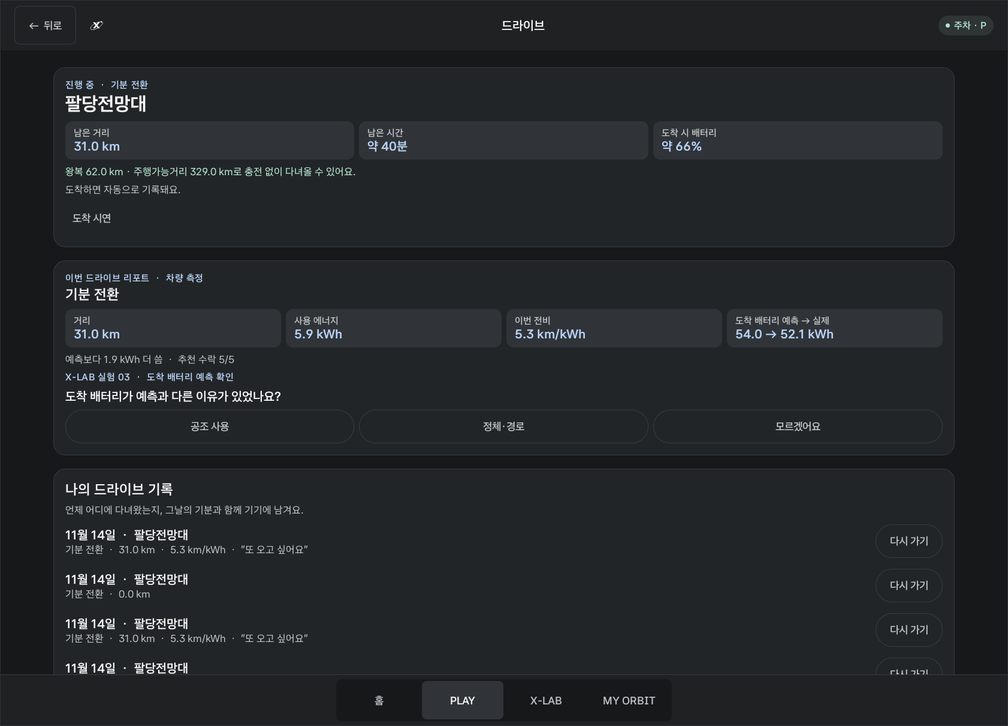
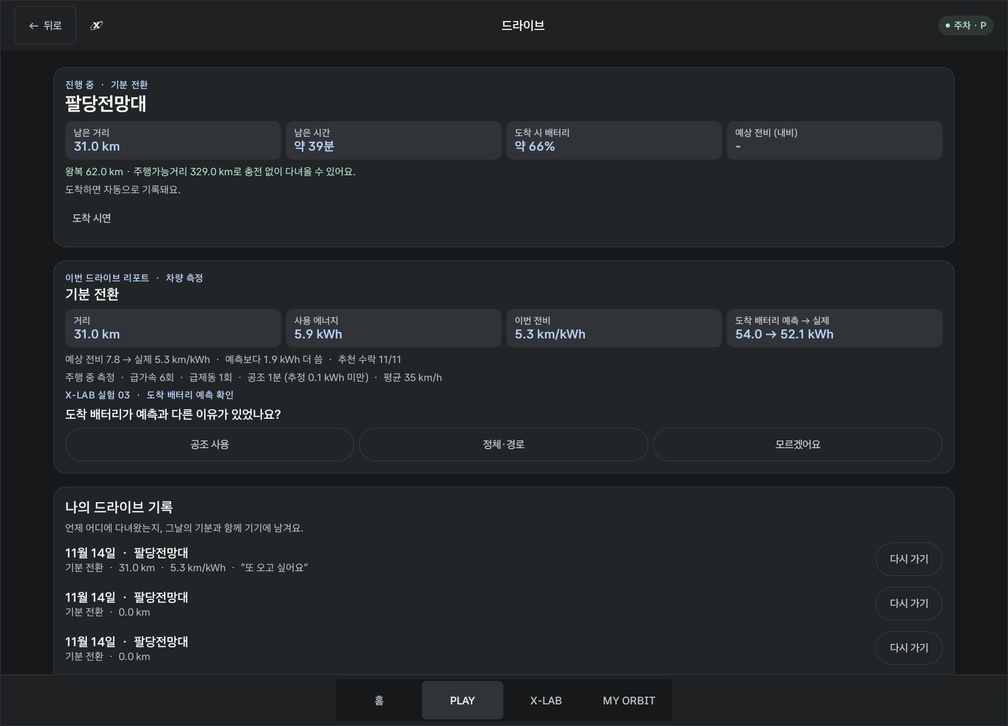
Compare navigation's predicted efficiency with the real one on every guided trip
The route card shows the efficiency navigation implies (remaining distance over the
energy it expects to use), and the drive report shows predicted vs actual km/kWh next to
the arrival battery gap. Any trip guided by Pleos navigation is recorded this way without
picking a drive mode; drive course suggestions stay as they are. Climate time now carries
a rough energy estimate (1 kW average, labelled as an estimate).

diff --git a/app/src/main/java/com/example/orbitx/OrbitData.kt b/app/src/main/java/com/example/orbitx/OrbitData.kt
@@ -54,6 +54,12 @@ internal data class DriveBehavior(val hardAccel: Int, val hardBrake: Int, val cl
 internal const val HardAccelMps2 = 3.0f
 internal const val HardBrakeMps2 = -3.5f
 
+/**
+ * Rough average climate draw used only to show how much of a drive's energy the climate may explain.
+ * Real draw varies a lot (heat pump, outside temperature), so the app always labels it as an estimate.
+ */
+internal const val ClimateKwhPerMinute = 1.0f / 60f
+
 /** The in-drive tip shows after every 3 hard events, at most twice a drive. */
 internal const val DrivingTipEvery = 3
 internal const val DrivingTipMax = 2
@@ -69,6 +75,8 @@ internal data class TripReport(
     /** Battery energy (kWh) the car reported on arrival. */
     val actualArrivalKwh: Float? = null,
     val behavior: DriveBehavior? = null,
+    /** km/kWh navigation implied at departure (route distance over predicted energy use). */
+    val predictedEfficiency: Double? = null,
 ) {
     /** kWh used beyond the prediction (negative: arrived with more than predicted). */
     val arrivalGapKwh: Float?
@@ -667,7 +675,7 @@ internal class OrbitData(private val context: Context) {
             recommendationTotal = total
         }
         if (starting) {
-            prefs.edit().remove("tripPredictKwh").apply()
+            prefs.edit().remove("tripPredictKwh").remove("tripPredictKm").apply()
             clearDriveBehavior()
             val sample = freshVehicleSample()
             if (sample != null) storeTripStart(sample)
@@ -765,12 +773,12 @@ internal class OrbitData(private val context: Context) {
         )
     }
 
-    fun notePredictedArrival(kwh: Float?) {
+    fun notePredictedArrival(kwh: Float?, distanceKm: Float? = null) {
         if (kwh == null || !kwh.isFinite() || kwh <= 0f || activeMission == null || prefs.contains("tripPredictKwh")) return
         // A prediction above the battery we start with is stale (made for an earlier state); skip it.
         val now = freshVehicleSample()?.batteryKwh
         if (now != null && kwh > now + ArrivalGapNoticeKwh) return
-        prefs.edit().putFloat("tripPredictKwh", kwh).apply()
+        prefs.edit().putFloat("tripPredictKwh", kwh).putFloat("tripPredictKm", distanceKm ?: -1f).apply()
     }
 
     private fun storeTripStart(sample: LeagueVehicleSample) {
@@ -791,8 +799,13 @@ internal class OrbitData(private val context: Context) {
         val predicted = prefs.getFloat("tripPredictKwh", -1f).takeIf { it > 0f }
         val actual = end.batteryKwh
         val behavior = currentDriveBehavior()
+        val predictKm = prefs.getFloat("tripPredictKm", -1f).takeIf { it >= .5f }
+        val predictedUse = if (predicted != null && startKwh != null) startKwh - predicted else null
+        val predictedEfficiency = if (predictKm != null && predictedUse != null && predictedUse >= .1f)
+            (predictKm / predictedUse).toDouble() else null
         val done = report.copy(distanceKm = distance, energyKwh = energy, charged = charged, pending = false,
-            predictedArrivalKwh = predicted, actualArrivalKwh = actual, behavior = behavior)
+            predictedArrivalKwh = predicted, actualArrivalKwh = actual, behavior = behavior,
+            predictedEfficiency = predictedEfficiency)
         driveJournal.firstOrNull()?.let { latest ->
             updateLatestJournal(latest.copy(distanceKm = distance, efficiency = done.efficiency))
         }
@@ -800,7 +813,8 @@ internal class OrbitData(private val context: Context) {
             .putBoolean("tripReportCharged", charged).putBoolean("tripReportPending", false)
             .putFloat("tripReportPredict", predicted ?: -1f).putFloat("tripReportActual", actual ?: -1f)
             .putString("tripReportBehavior", behavior?.encode())
-            .remove("tripStartKm").remove("tripStartKwh").remove("tripStartPending").remove("tripPredictKwh").apply()
+            .putFloat("tripReportPredictEff", predictedEfficiency?.toFloat() ?: -1f)
+            .remove("tripStartKm").remove("tripStartKwh").remove("tripStartPending").remove("tripPredictKwh").remove("tripPredictKm").apply()
         lastTrip = done
         clearDriveBehavior()
         done.arrivalGapKwh?.let { gap ->
@@ -823,6 +837,7 @@ internal class OrbitData(private val context: Context) {
             prefs.getFloat("tripReportPredict", -1f).takeIf { it > 0f },
             prefs.getFloat("tripReportActual", -1f).takeIf { it >= 0f },
             DriveBehavior.decode(prefs.getString("tripReportBehavior", null)),
+            prefs.getFloat("tripReportPredictEff", -1f).takeIf { it > 0f }?.toDouble(),
         )
     }
 
@@ -1068,7 +1083,8 @@ internal class OrbitData(private val context: Context) {
         ))
         prefs.edit().putString("tripReportMode", intent).putBoolean("tripReportPending", true)
             .remove("tripReportKm").remove("tripReportKwh").remove("tripReportCharged")
-            .remove("tripReportPredict").remove("tripReportActual").remove("tripReportBehavior").apply()
+            .remove("tripReportPredict").remove("tripReportActual").remove("tripReportBehavior")
+            .remove("tripReportPredictEff").apply()
         lastTrip = TripReport(intent, null, null, charged = false, pending = true)
         nextTripExperiment()
         freshVehicleSample()?.let(::finishTripReport)

diff --git a/app/src/main/java/com/example/orbitx/OrbitApp.kt b/app/src/main/java/com/example/orbitx/OrbitApp.kt
@@ -1248,7 +1248,7 @@ private fun Trip(
                 if (data.availableDriveAward > 0) Chip("도착 +${formatPoints(data.availableDriveAward)}")
             }
             navigation?.route?.let { plan ->
-                RouteEnergyCheck(plan, navigation.arrivalPercent(plan), rangeKm, onCharge = { navigation.openNavigation(DriveMode.Charge.searchRequest) })
+                RouteEnergyCheck(plan, navigation.arrivalPercent(plan), navigation.predictedEfficiency(plan), rangeKm, onCharge = { navigation.openNavigation(DriveMode.Charge.searchRequest) })
             }
             Text(
                 when {
@@ -1379,6 +1379,9 @@ private fun TripReportPanel(data: OrbitData, mission: String, monthEfficiency: D
                         }
                         else -> null
                     },
+                    trip.predictedEfficiency?.let { predicted ->
+                        trip.efficiency?.let { "예상 전비 ${efficiency(predicted)} → 실제 ${efficiency(it)} km/kWh" }
+                    },
                     trip.arrivalGapKwh?.let { gap ->
                         when {
                             gap >= ArrivalGapNoticeKwh -> "예측보다 ${efficiency(gap.toDouble())} kWh 더 씀"
@@ -1399,7 +1402,13 @@ private fun TripReportPanel(data: OrbitData, mission: String, monthEfficiency: D
                     val habits = listOfNotNull(
                         b.hardAccel.takeIf { it >= 0 }?.let { "급가속 ${it}회" },
                         b.hardBrake.takeIf { it >= 0 }?.let { "급제동 ${it}회" },
-                        b.climateMinutes.takeIf { it >= 0 }?.let { if (it == 0) "공조 꺼짐" else "공조 ${it}분" },
+                        b.climateMinutes.takeIf { it >= 0 }?.let {
+                            if (it == 0) "공조 꺼짐"
+                            else {
+                                val kwh = it * ClimateKwhPerMinute
+                                "공조 ${it}분 (추정 " + (if (kwh < .1f) "0.1 kWh 미만" else "약 ${efficiency(kwh.toDouble())} kWh") + ")"
+                            }
+                        },
                         b.avgSpeedKph?.let { "평균 ${it} km/h" },
                     )
                     if (habits.isNotEmpty()) Text("주행 중 측정  ·  " + habits.joinToString("  ·  "),
@@ -1453,13 +1462,14 @@ private fun ReportQuestion(title: String, options: List<String>, onPick: (String
 private val PlausibleEvEfficiency = 2.0..12.0
 
 @Composable
-private fun RouteEnergyCheck(plan: RoutePlan, arrivalPercent: Int?, rangeKm: Float?, onCharge: () -> Unit) {
+private fun RouteEnergyCheck(plan: RoutePlan, arrivalPercent: Int?, predictedEfficiency: Double?, rangeKm: Float?, onCharge: () -> Unit) {
     val distance = plan.distanceKm
     Row(Modifier.fillMaxWidth(), horizontalArrangement = Arrangement.spacedBy(8.dp)) {
         listOf(
             "남은 거리" to (distance?.let { "${efficiency(it.toDouble())} km" } ?: "-"),
             "남은 시간" to (plan.minutes?.let { "약 ${it}분" } ?: "-"),
             "도착 시 배터리" to (arrivalPercent?.let { "약 $it%" } ?: plan.arrivalBatteryKwh?.let { "${efficiency(it.toDouble())} kWh" } ?: "-"),
+            "예상 전비 (내비)" to (predictedEfficiency?.let { "${efficiency(it)} km/kWh" } ?: "-"),
         ).forEach { (label, value) ->
             Column(
                 Modifier.weight(1f).clip(RoundedCornerShape(12.dp)).background(Glass)

diff --git a/app/src/main/java/com/example/orbitx/MissionNavigation.kt b/app/src/main/java/com/example/orbitx/MissionNavigation.kt
@@ -78,6 +78,15 @@ internal class MissionNavigation(
     /** Current battery energy, used with [vehicleBatteryPercent] to turn the arrival energy into a %. */
     var vehicleBatteryKwh: Float? = null
 
+    /** Efficiency navigation implies for the route: remaining distance over the energy it expects to use. */
+    fun predictedEfficiency(plan: RoutePlan?): Double? {
+        val distance = plan?.distanceKm ?: return null
+        val arrival = plan.arrivalBatteryKwh ?: return null
+        val now = vehicleBatteryKwh ?: return null
+        val use = now - arrival
+        return if (use >= .1f && distance >= .5f) (distance / use).toDouble() else null
+    }
+
     /** Arrival battery as a % of capacity (capacity estimated from the car's current kWh and %). */
     fun arrivalPercent(plan: RoutePlan?): Int? {
         val energy = plan?.arrivalBatteryKwh ?: return null

diff --git a/app/src/main/java/com/example/orbitx/OrbitRuntime.kt b/app/src/main/java/com/example/orbitx/OrbitRuntime.kt
@@ -65,7 +65,7 @@ internal object OrbitRuntime {
                 if (tick++ % RouteRefreshTicks == 0) navigation?.refreshRoute()
                 navigation?.vehicleBatteryPercent = source.readBatteryPercent()
                 // Pleos navigation's departure-time prediction, checked against the real arrival later.
-                data.notePredictedArrival(navigation?.route?.arrivalBatteryKwh)
+                data.notePredictedArrival(navigation?.route?.arrivalBatteryKwh, navigation?.route?.distanceKm)
                 // While driving, keep the reasons a drive may use more battery than navigation predicted.
                 if (source.parking != ParkingStatus.Parked && data.activeMission != null) {
                     data.recordClimate(source.readClimateOn(), (SampleIntervalMs / 1_000).toInt())

diff --git a/README.md b/README.md
@@ -55,7 +55,7 @@ Pleos Connect v2.1.0 에뮬레이터에서 현재 빌드로 캡처했습니다. 
 | 슬로건과 인사말, PLAY·X-LAB 진입, 포인트 | 이달 주행 기록, 공조 인사이트와 같은 차종 비교(예시), 도착 배터리 예측 인사이트(내 기록 + 예시), 순위(예시) |
 | **드라이브** | **X-LAB** |
 | ![드라이브](docs/screenshots/04_drive.png) | ![X-LAB](docs/screenshots/08_xlab_experiments.png) |
-| 드라이브 리포트(31 km · 5.9 kWh · 5.3 km/kWh, 도착 배터리 예측 54.0 → 실제 52.1 kWh), 실험 03 질문, 나의 드라이브 기록 | X-LAB → 실험 목록: 실험 6개의 단계(발견 → 시험 → 배포 → 재확인, 효과가 없으면 보류·중단)와 연결된 PLAY, 응답 수 |
+| 진행 중 경로(남은 거리·시간·도착 배터리·내비 예상 전비), 드라이브 리포트(31 km · 5.9 kWh · 예상 전비 7.8 → 실제 5.3 km/kWh, 도착 배터리 54.0 → 52.1 kWh, 주행 중 측정), 실험 03 질문, 나의 드라이브 기록 | X-LAB → 실험 목록: 실험 6개의 단계(발견 → 시험 → 배포 → 재확인, 효과가 없으면 보류·중단)와 연결된 PLAY, 응답 수 |
 | **착석 연동 공조** | **OTA 평가 (실제 도어 제어)** |
 | ![공조](docs/screenshots/09_climate.png) | ![OTA](docs/screenshots/10_ota.png) |
 | 빈 차량을 감지해 순정 공조를 끄고 "에너지 절약" 표시 | Vehicle SDK로 네 문을 잠그고 풀며 버튼을 평가 |
@@ -99,8 +99,8 @@ Pleos Connect v2.1.0 에뮬레이터에서 현재 빌드로 캡처했습니다. 
 **드라이브**
 - **출발 전 확인:** 차량 주행가능거리로 왕복 가능 거리, 배터리, 실내온도를 보여주고, 너무 춥거나 더우면 열선·착석 연동 공조 팁을 줍니다. **실제 SDK**
 - **자동으로 흘러가는 드라이브:** 순정 내비에서 안내를 시작하면 추천 모드로 드라이브가 자동 시작되고, 목적지가 자동 연결되며, 도착 이벤트로 기록이 자동 완료됩니다. **실제 SDK**
-- **경로 에너지 확인:** 남은 거리·시간·도착 시 예상 배터리(내비가 kWh로 알려 준 값을 현재 배터리 기준 %로 환산)를 보여주고, 왕복이 주행가능거리보다 길면 충전소를 제안합니다. **실제 SDK**
-- **도착 배터리 예측 vs 실제 (X-LAB 실험 03):** 현대·기아 순정 내비는 이미 도착 배터리를 예측하고, 모자라면 충전소를 경유지로 넣어 줍니다(EV 경로 플래너). ORBIT X는 이 기능을 다시 만들지 않고, 그 **예측이 실제와 얼마나 맞는지**를 기록합니다. 안내를 시작할 때 NaviHelper가 알려 준 도착 시 남는 에너지(kWh)를 저장하고, 도착하면 Vehicle SDK로 읽은 배터리 에너지와 비교해 드라이브 리포트에 "54.0 → 52.1 kWh · 예측보다 1.9 kWh 더 씀"처럼 보여 줍니다. 주행 중에는 차이의 원인이 될 만한 것을 함께 잽니다: 급가속·급제동 횟수(차량 속도를 0.5초마다 읽어 3 m/s² 넘게 빨라지거나 3.5 m/s² 넘게 줄어든 순간, 급제동은 브레이크 페달 상태도 확인), 공조를 켠 시간, 평균 속도. 리포트에 "주행 중 측정 · 급가속 4회 · 급제동 2회 · 공조 32분 · 평균 52 km/h"처럼 남기고, 차이가 나면 이유(공조 사용, 정체·경로)를 한 번 묻습니다. 중간에 충전한 드라이브는 비교에서 뺍니다. 가속 페달 값은 SDK에 없어 급가속으로만 보고, 제한속도는 내비가 주지 않아 과속은 판단하지 않습니다. **실제 SDK**
+- **경로 에너지 확인:** 남은 거리·시간·도착 시 예상 배터리(내비가 kWh로 알려 준 값을 현재 배터리 기준 %로 환산)와 **내비 예상 전비**(남은 거리 ÷ 내비가 예상한 사용 에너지)를 보여주고, 왕복이 주행가능거리보다 길면 충전소를 제안합니다. **실제 SDK**
+- **내비 예상 전비 vs 실제 전비, 도착 배터리 예측 vs 실제 (X-LAB 실험 03):** 드라이브 모드를 따로 고르지 않아도 순정 내비로 목적지를 검색해 안내를 받으면 자동으로 기록됩니다(드라이브 코스 추천은 그대로 둡니다). 현대·기아 순정 내비는 이미 도착 배터리를 예측하고, 모자라면 충전소를 경유지로 넣어 줍니다(EV 경로 플래너). ORBIT X는 이 기능을 다시 만들지 않고, 그 **예측이 실제와 얼마나 맞는지**를 기록합니다. 안내를 시작할 때 NaviHelper가 알려 준 도착 시 남는 에너지(kWh)를 저장하고, 도착하면 Vehicle SDK로 읽은 배터리 에너지와 비교해 드라이브 리포트에 "예상 전비 7.8 → 실제 5.3 km/kWh · 예측보다 1.9 kWh 더 씀"처럼 보여 줍니다(예상 전비 = 출발 때 경로 거리 ÷ (출발 배터리 − 예상 도착 배터리)). 주행 중에는 차이의 원인이 될 만한 것을 함께 잽니다: 급가속·급제동 횟수(차량 속도를 0.5초마다 읽어 3 m/s² 넘게 빨라지거나 3.5 m/s² 넘게 줄어든 순간, 급제동은 브레이크 페달 상태도 확인), 공조를 켠 시간, 평균 속도. 리포트에 "주행 중 측정 · 급가속 4회 · 급제동 2회 · 공조 32분 (추정 약 0.5 kWh) · 평균 52 km/h"처럼 남기고(공조 에너지는 평균 1 kW로 가정한 참고용 추정치이며 실제 소비는 외기온·히트펌프에 따라 크게 다름), 차이가 나면 이유(공조 사용, 정체·경로)를 한 번 묻습니다. 중간에 충전한 드라이브는 비교에서 뺍니다. 가속 페달 값은 SDK에 없어 급가속으로만 보고, 제한속도는 내비가 주지 않아 과속은 판단하지 않습니다. **실제 SDK**
 - **주행 습관 안내:** 급가속·급제동이 한 드라이브에서 3번 쌓이면 순정 내비 위에 "급가속 2회 · 급제동 1회 / 전비에 악영향을 줄 수 있어요. 부드럽게 안전운전하세요."를 3초만 띄우고 스스로 사라집니다. 누를 필요가 없고, 한 드라이브에 최대 2번(3회, 6회째)만 띄워 자주 방해하지 않습니다. **실제 SDK**
 - **주행 중 내비 위 알림:** 배터리가 부족하면(도착 예상 30% 이하 또는 현재 25% 이하) 순정 내비 위에 알림을 띄우고 버튼 하나로 순정 내비의 경로 주변 충전소 목록을 엽니다. 순정 저잔량 안내와 같은 역할이라 차별 기능으로 내세우지 않습니다. **실제 SDK**
 - **드라이브 리포트:** 출발·도착 때 읽은 값으로 거리·사용 에너지·전비를 계산하고, 내비 안내로 다녀왔다면 도착 배터리 예측 vs 실제와 주행 중 측정(급가속·급제동·공조·평균 속도)을 함께 보여 줍니다. 질문은 한 번에 하나(기분 한 줄 → 추천이 맞았는지 → X-LAB 실험 질문 하나)만 묻고(실험 질문은 도착 후 내비 위 알림으로도 답할 수 있음), 실제 목적은 도착 후 **목적 바꾸기**로 고칩니다. **실제 SDK**
@@ -283,7 +283,7 @@ PC 브라우저에서 [Pleos Virtual Console](http://127.0.0.1:8088/)을 열고 
 | --- | --- | --- |
 | 홈·MY ORBIT | Pleos 프로필 이름(읽을 수 있을 때), 사용자가 입력한 이름, 공조 자동화 설정 | 직접 입력한 이름과 설정 |
 | 주행 효율 리그 | 차량 모델, 누적거리, 배터리 에너지·충전 스위치, 지원 차량 연료량, 착석·공조 전원(읽기 전용) | 월별 거리 기준점, 효율 계산 거리·소비량 합계 |
-| 드라이브 | 배터리 SOC·에너지, 주행가능거리, 실내온도, 조수석 착석, 내비 목적지·남은 거리·도착 배터리·도착 이벤트 | 진행 중 목적지, 리포트, 추천 수락 기록, 드라이브 기록(최근 20건), 목적지 해시와 방문일(7일), 예측·실제 도착 배터리(kWh), 주행 중 측정(급가속·급제동 횟수, 공조 시간, 평균 속도) |
+| 드라이브 | 배터리 SOC·에너지, 주행가능거리, 실내온도, 조수석 착석, 차량 속도, 브레이크 페달, 공조 전원, 내비 목적지·남은 거리·도착 배터리·도착 이벤트 | 진행 중 목적지, 리포트, 추천 수락 기록, 드라이브 기록(최근 20건), 목적지 해시와 방문일(7일), 예측·실제 도착 배터리(kWh), 내비 예상 전비, 주행 중 측정(급가속·급제동 횟수, 공조 시간, 평균 속도) |
 | 착석 연동 공조 | 네 좌석 착석, 실내온도, 공조 구역 상태 | 자동화 설정, 장기 미션 완료일·의견 (연속 신호 이력은 저장 안 함) |
 | X-LAB A/B 비교 | SYNC 상태(차량 신호)로 확인한 두 방식의 완료와 운전자 조작 여부, 착석 신호 출처, 선호와 이유 | 최근 실험 결과 |
 | OTA 평가·미션 | 도어 잠금 상태·제어, SYNC 상태 변경, 평가와 미사용 이유 | 평가 결과, 미션 응답과 포인트 |
@@ -320,7 +320,7 @@ PC 브라우저에서 [Pleos Virtual Console](http://127.0.0.1:8088/)을 열고 
 
 | 구분 | 내용 |
 | --- | --- |
-| **실제 동작** | 착석 연동 공조, 빈 좌석 공조 감지·끄기, 실제 도어 잠금, 추정 전비, 드라이브 리포트, 도착 배터리 예측 vs 실제, 급가속·급제동·공조 시간·평균 속도 측정과 내비 위 주행 습관 안내, 왕복 가능 거리, 내비 경로 연동과 자동 도착 기록, 주행 중 내비 위 알림, 앱이 뒤에 있을 때의 백그라운드 기록, 주행 제한 잠금 |
+| **실제 동작** | 착석 연동 공조, 빈 좌석 공조 감지·끄기, 실제 도어 잠금, 추정 전비, 드라이브 리포트, 내비 예상 전비 vs 실제 전비, 도착 배터리 예측 vs 실제, 급가속·급제동·공조 시간·평균 속도 측정과 내비 위 주행 습관 안내, 왕복 가능 거리, 내비 경로 연동과 자동 도착 기록, 주행 중 내비 위 알림, 앱이 뒤에 있을 때의 백그라운드 기록, 주행 제한 잠금 |
 | **앱 내 재현·예시** | 리그 순위·경쟁자·시상액, 같은 차종 사용/미사용 비교 수치, 내비 없이 하는 모의 도착 |
 | **검증 환경 한계** | Pleos Connect v2.1.0 에뮬레이터는 공조 전원이 전 좌석 한 구역이고, 앞좌석 풍량도 운전석·조수석이 하나로 묶여 있습니다(1~8단, 0단 없음). 그래서 빈 좌석만 바람을 0단으로 끄는 동작은 확인하지 못했습니다. 실제 차량은 좌석별 풍량·풍향 제어가 가능하므로, 같은 코드가 차량이 보고하는 구역에 맞춰 빈 좌석 풍량을 가장 약하게(지원 시 0단) 내립니다. 풍향은 SDK에 끄기 값이 없어 풍량으로만 줄입니다. |
 | **향후 계획** | 현대자동차그룹 개발·OTA 배포 체계와의 연계(앱은 근거 수집까지만 담당), 서버 집계와 실제 참여자 리그, 블루멤버스 실제 전환, 휴게·동승자 코스 알림, 음성(TextToSpeech·Gleo) 안내, 실차 연료량 기반 연비 검증 |
